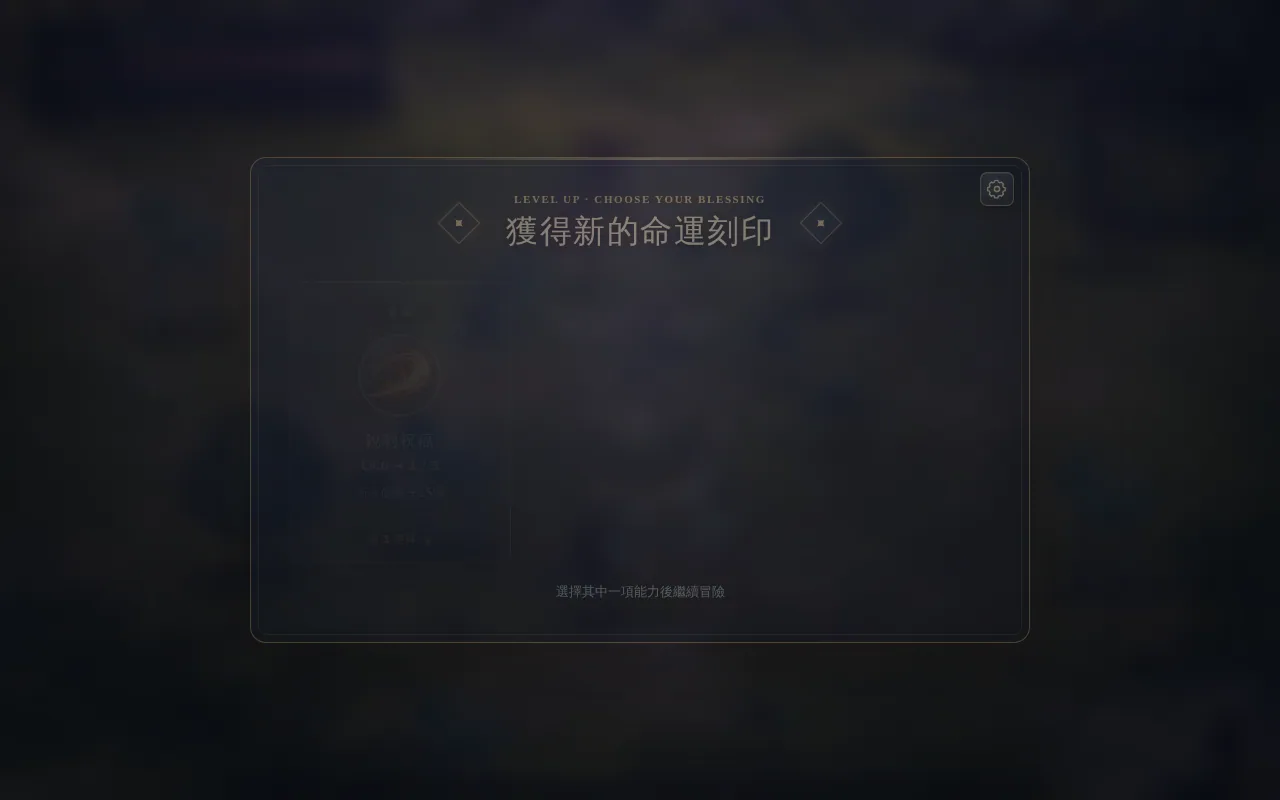
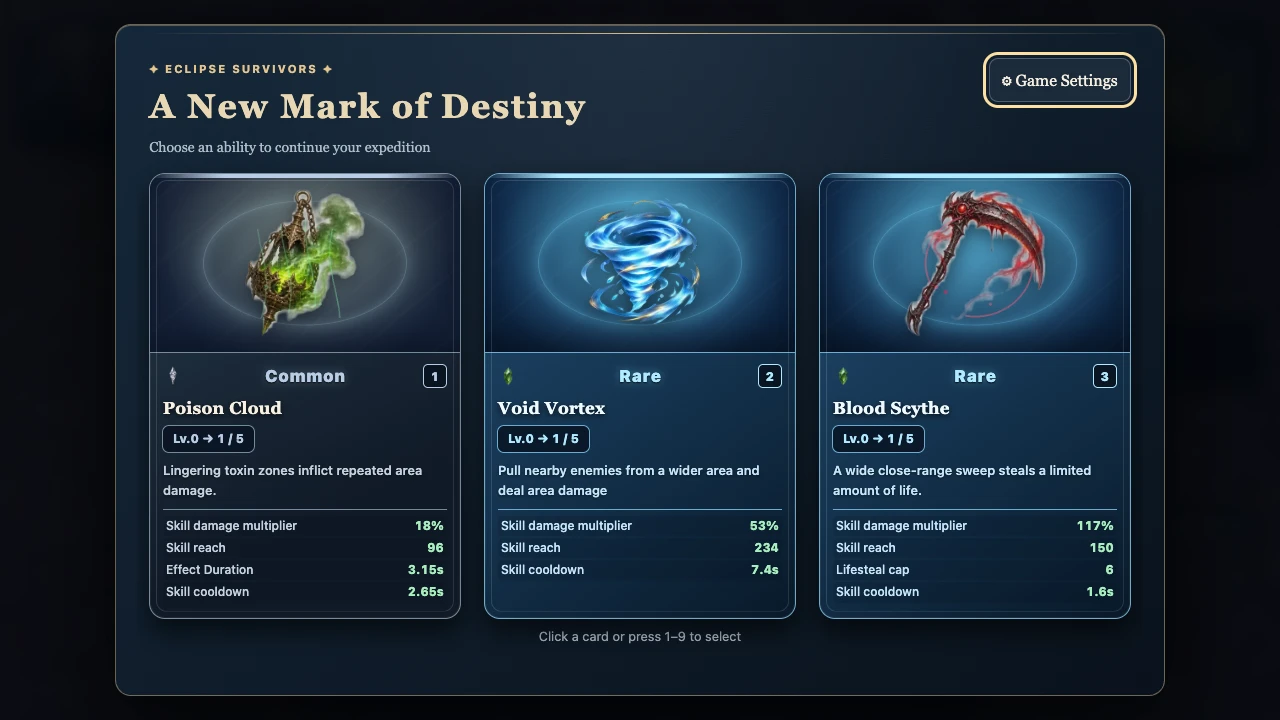
docs(readme): refresh screenshots, add start page and demo video

diff --git a/README.md b/README.md
@@ -1,6 +1,6 @@
 <p align="center">
   <a href="https://weskao.github.io/eclipse-survivors/" title="Play Eclipse Survivors">
-    <img src="assets/screenshots/gameplay.webp" alt="Actual Eclipse Survivors gameplay captured in the browser: an armored knight facing goblins, slimes, bats, and stone golems in a grassy ruined courtyard" width="100%">
+    <img src="assets/screenshots/start.webp" alt="Eclipse Survivors start page: the Adventurer Hall, six selectable champions and the Enter the Twilight Gate button" width="100%">
   </a>
 </p>
 
@@ -22,20 +22,22 @@
 
 The images below show the current game as it runs in Chromium, not promotional mockups or artwork from another game.
 
+https://github.com/user-attachments/assets/fc71bf59-cd8d-416f-b561-b889cb9e2fa4
+
 <table>
 <tr>
 <td width="66%">
-  <img src="assets/screenshots/gameplay.webp" alt="Real desktop gameplay featuring the in-game knight, goblins, slimes, bats and stone golems on a grassy stone path" width="100%">
+  <img src="assets/screenshots/gameplay.webp?v=2" alt="Real desktop gameplay: the Dawnsteel Knight fighting goblins, slimes, bats and hooded casters in the Dawnfall Courtyard" width="100%">
   <small><strong>Survival combat</strong> — automatic attacks, enemy waves, experience, and HUD.</small>
 </td>
 <td width="34%" rowspan="2">
-  <img src="assets/screenshots/mobile.webp" alt="Real mobile browser gameplay captured at a 390 by 844 pixel viewport" width="100%">
+  <img src="assets/screenshots/mobile.webp?v=2" alt="Real mobile browser gameplay captured at a 390 by 844 pixel viewport" width="100%">
   <small><strong>Mobile play</strong> — the actual touch-screen layout.</small>
 </td>
 </tr>
 <tr>
 <td>
-  <img src="assets/screenshots/upgrade.webp" alt="Actual Eclipse Survivors level-up screen showing three selectable ability cards" width="100%">
+  <img src="assets/screenshots/upgrade.webp?v=2" alt="Actual Eclipse Survivors level-up screen showing three selectable ability cards" width="100%">
   <small><strong>Level-up choices</strong> — select one of three upgrades during a run.</small>
 </td>
 </tr>
